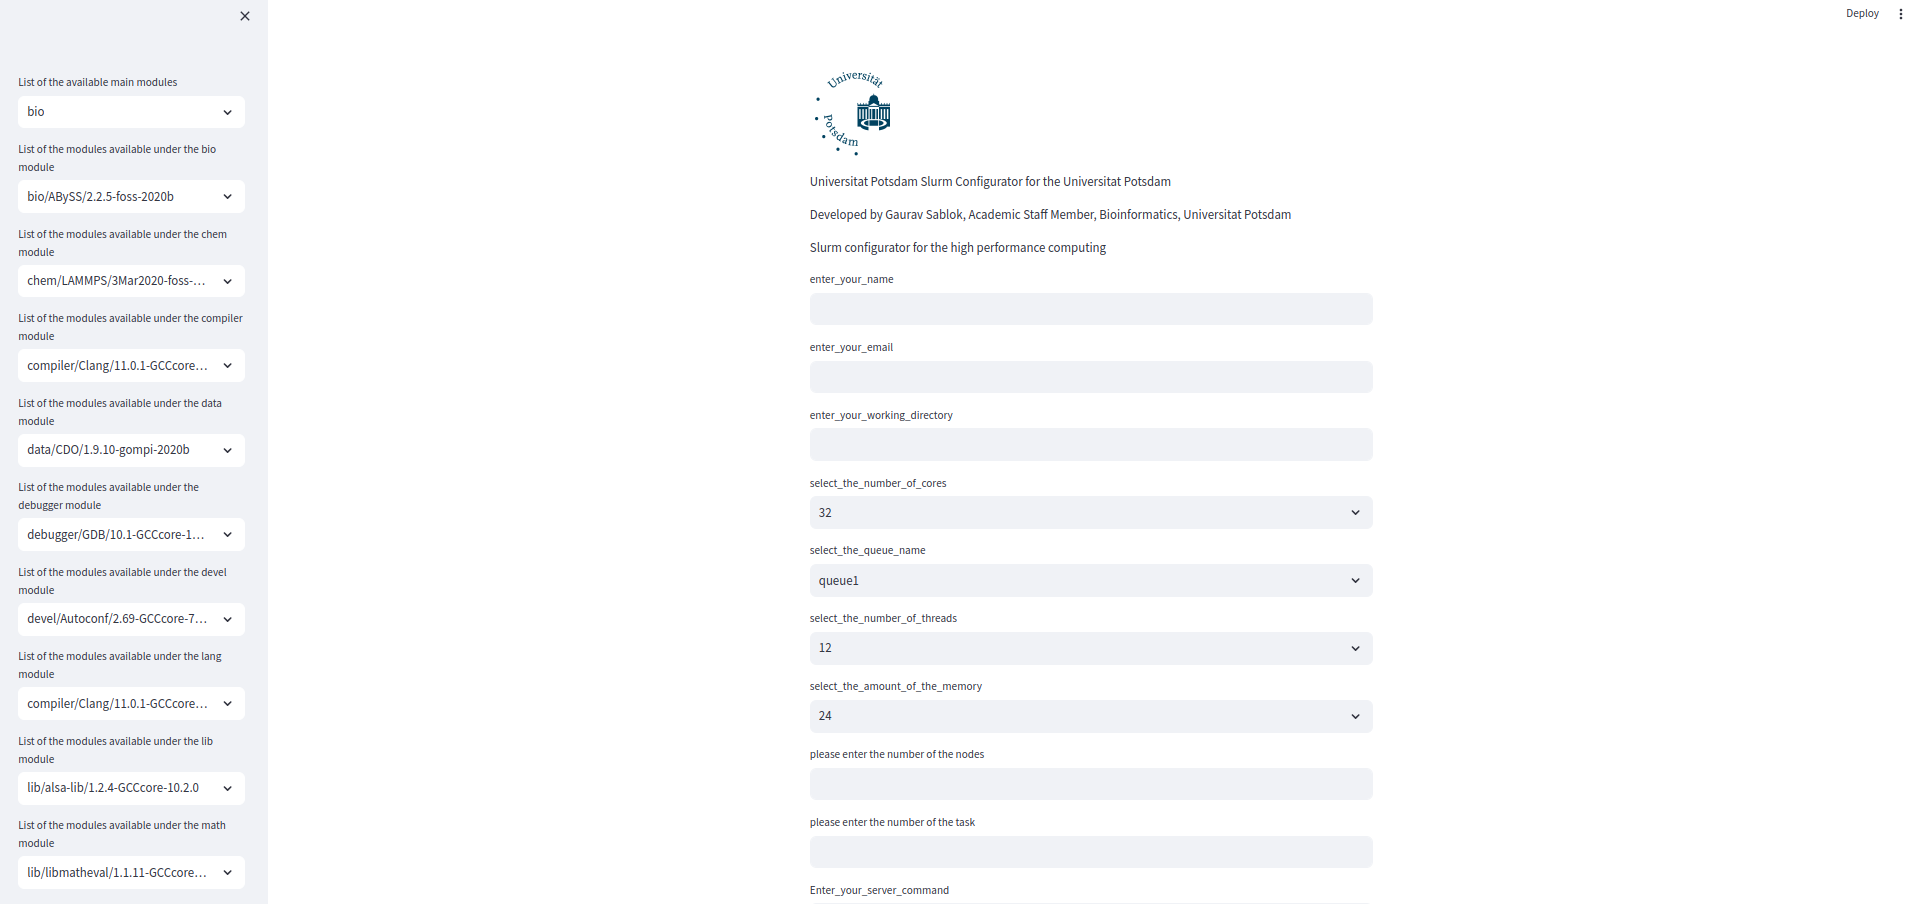
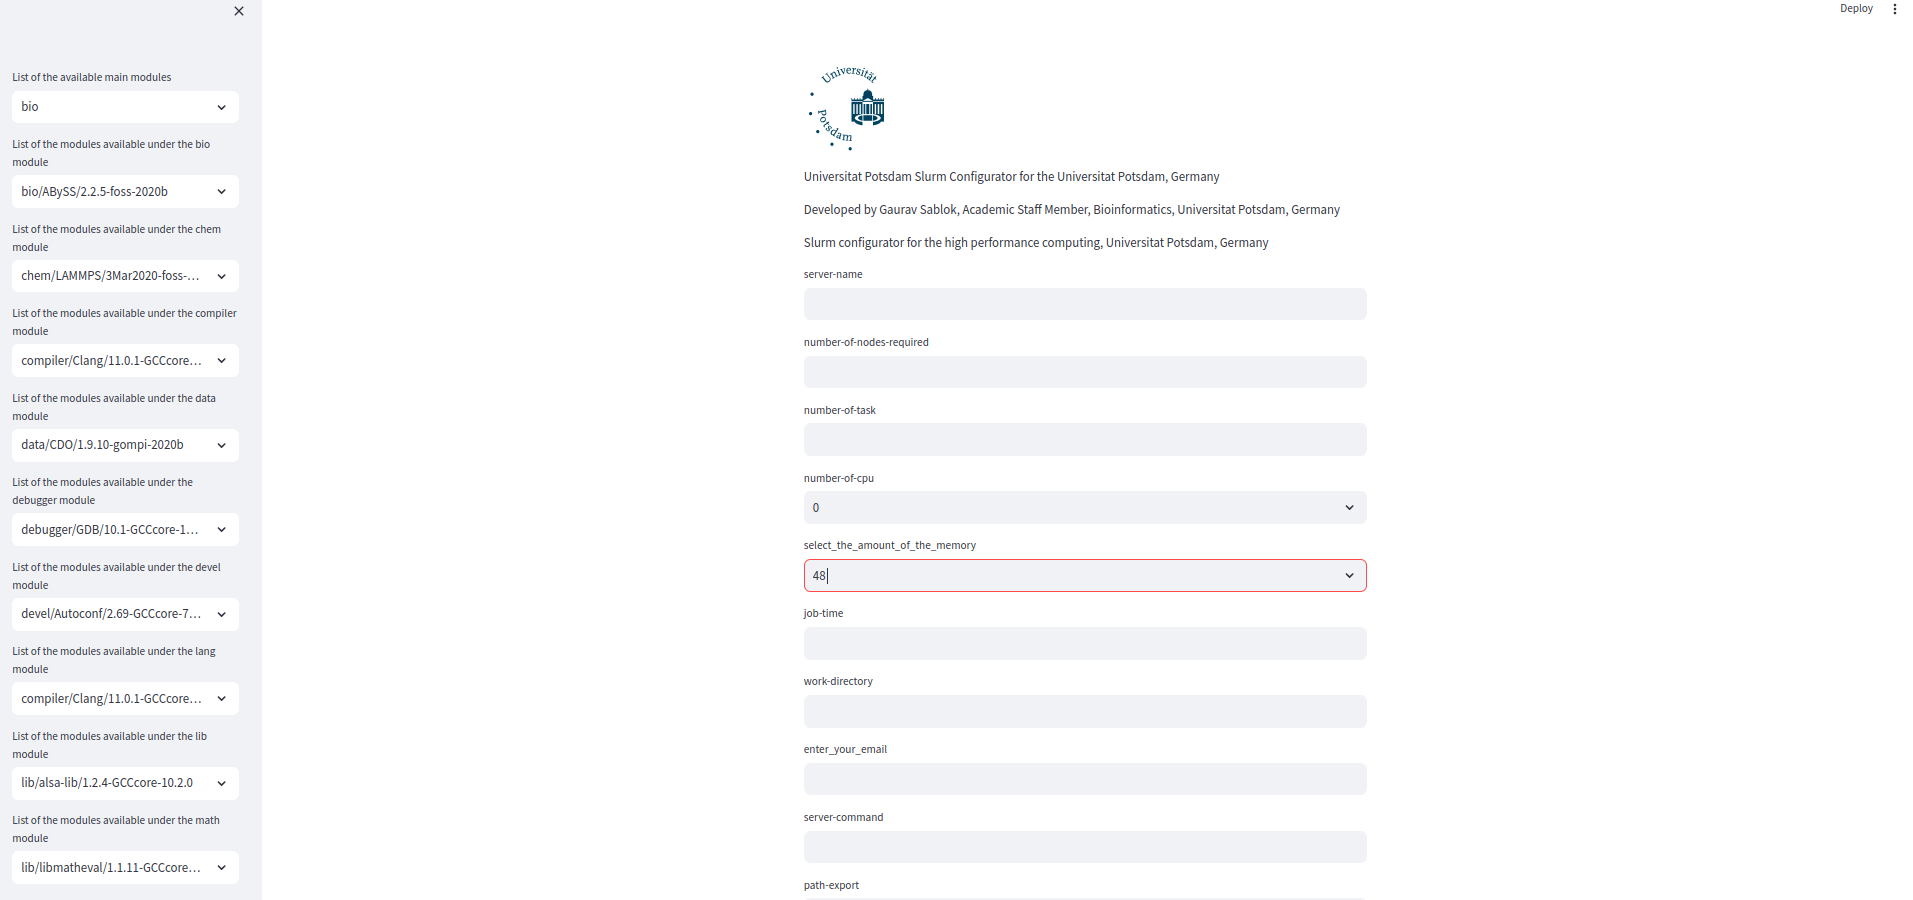
added default configuration prints and also added support for the custom syling and adding the support for the job submission and the final code update with the module list. 2024-5-11.

diff --git a/streamlitapplication.py b/streamlitapplication.py
@@ -10,10 +10,10 @@ st.set_page_config(
                  layout="centered",
                  initial_sidebar_state="expanded")
 st.image("https://www.uni-potsdam.de/typo3conf/ext/up_template/Resources/Public/Images/logos/up_logo_international_2.png", width = 100)
-st.markdown("Universitat Potsdam Slurm Configurator for the Universitat Potsdam")
-st.markdown("Developed by Gaurav Sablok, Academic Staff Member, Bioinformatics, Universitat Potsdam")
-st.markdown("Slurm configurator for the high performance computing")
-name = st.text_input("server-name")
+st.markdown("Universitat Potsdam Slurm Configurator for the Universitat Potsdam, Germany")
+st.markdown("Developed by Gaurav Sablok, Academic Staff Member, Bioinformatics, Universitat Potsdam, Germany")
+st.markdown("Slurm configurator for the high performance computing, Universitat Potsdam, Germany")
+username = st.text_input("server-name")
 nodes = st.text_input("number-of-nodes-required")
 task = st.text_input("number-of-task")
 cpu = st.selectbox("number-of-cpu", [i for i in range(10)])
@@ -23,6 +23,7 @@ workdir = st.text_input("work-directory")
 email = st.text_input("enter_your_email")
 command = st.text_input("server-command")
 exportpath = st.text_input("path-export")
+additionaltext = st.text_input("additional-text")
 modavail = st.sidebar.selectbox("List of the available main modules", ["bio","chem", "compiler", "custom", "data", "debugger", "devel", "lang", "lib", "math", "mpi", "numlib", "perf","phys","system","toolchain","tools","vis"])
 biolist = st.sidebar.selectbox("List of the modules available under the bio module", ['bio/ABySS/2.2.5-foss-2020b',
   'bio/AUGUSTUS/3.4.0-foss-2020b',
@@ -1380,19 +1381,21 @@ if selected == "vis":
     st.selectbox("selected the above", selectedmoduleavail)
 configuration = st.button("Run the Slurm Configurator")
 if configuration:
-    st.write(f"Your server configuration file written by Universitat Potsdam Slurm Configurator is:"
-             print (f"#!/bin/bash\n \
-# {username}\n \
-#SBATCH --partition=all\n \
-#SBATCH --nodes={nodes}\n \
-#SBATCH --ntasks={task}\n \
-#SBATCH --cpus-per-task={cpu}\n \
-#SBATCH --mem={memory}G\n \
-#SBATCH --time={time}\n \
-#SBATCH --chdir={workdir}\n \
-#SBATCH --mail-type=ALL\n \
-#SBATCH --output=slurm-%j.out\n \
-{command}\n \
-export PATH={exportpath}:$PATH\n"))
+    st.write(f"#!/bin/bash\n \
+               {username}\n \
+               #SBATCH --partition=all\n \
+               #SBATCH --nodes={nodes}\n \
+               #SBATCH --ntasks={task}\n \
+               #SBATCH --cpus-per-task={cpu}\n \
+               #SBATCH --mem={memory}G\n \
+               #SBATCH --time={time}\n \
+               #SBATCH --chdir={workdir}\n \
+               #SBATCH --mail-type=ALL\n \
+               #SBATCH --output=slurm-%j.out\n \
+               {command}\n \
+               export PATH={exportpath}:$PATH\n \
+               #{additionaltext}\n")
+st.write("thank you for using slurm configurator. please support the continous development by like, fork the repository")
+
 if __name__ == "__main__":
     pass

diff --git a/README.md b/README.md
@@ -15,6 +15,7 @@ for i in $(cat module2.txt | cut -f 1 -d "/" | sort | uniq -c | awk '{ print $2 
  streamlit run streamlitapplication.py
 ```
  ![slum configurator1](https://github.com/gauravcodepro/streamlit-up-application/blob/main/slurm.png)
+ ![slum configurator1](https://github.com/gauravcodepro/streamlit-up-application/blob/main/slurm1.png)
 
  - No need of any modules files to load. Just select your module and it will dynamically updated the selected list to show all the sub modules listed under that module.
  - You can browse all the main modules and the sub-modules in the sidebar. 
